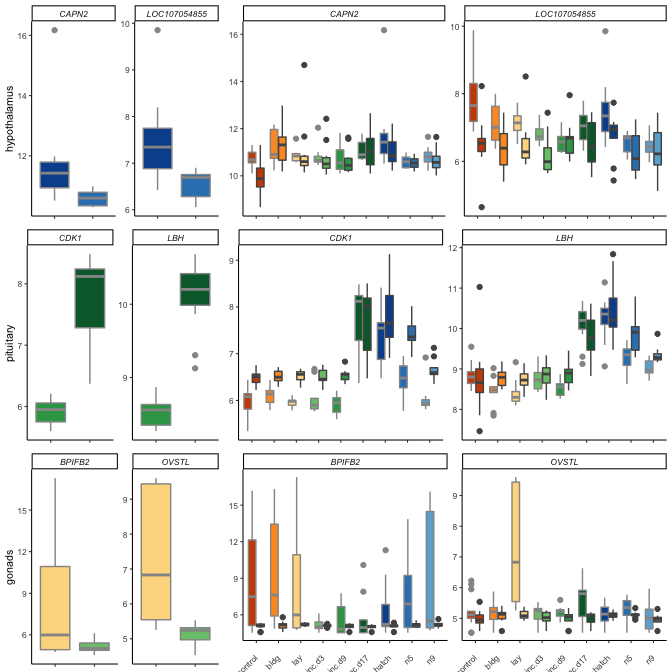
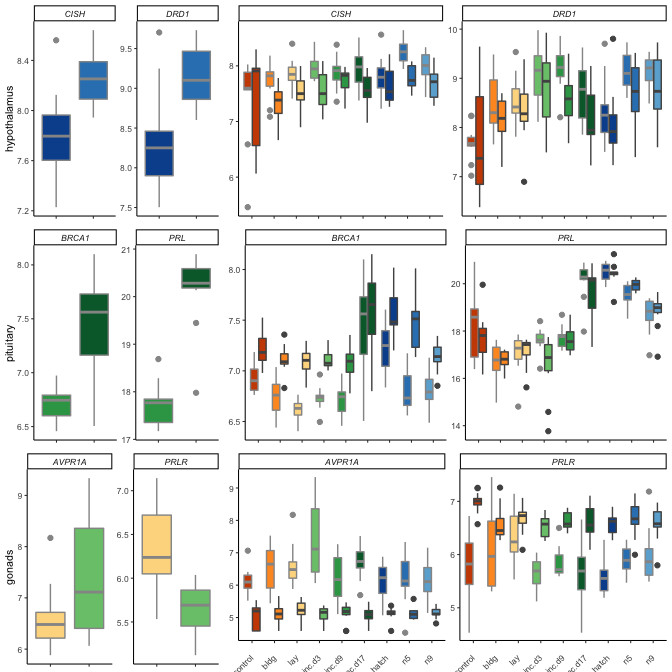
new fig 4

diff --git a/analysis/figure-4.md b/analysis/figure-4.md
@@ -3,14 +3,14 @@ Figure 4
 
     library(tidyverse)
 
-    ## ── Attaching packages ─────────────────────────────────────────────────────── tidyverse 1.3.0 ──
+    ## ── Attaching packages ─────────────────────────────── tidyverse 1.3.0 ──
 
     ## ✓ ggplot2 3.3.0.9000     ✓ purrr   0.3.3     
     ## ✓ tibble  2.1.3          ✓ dplyr   0.8.3     
     ## ✓ tidyr   1.0.0          ✓ stringr 1.4.0     
     ## ✓ readr   1.3.1          ✓ forcats 0.4.0
 
-    ## ── Conflicts ────────────────────────────────────────────────────────── tidyverse_conflicts() ──
+    ## ── Conflicts ────────────────────────────────── tidyverse_conflicts() ──
     ## x dplyr::filter() masks stats::filter()
     ## x dplyr::lag()    masks stats::lag()
 
@@ -45,23 +45,9 @@ Figure 4
       pivot_longer(cols = L.G118_female_gonad_control:y98.o50.x_male_pituitary_inc.d3, 
                    names_to = "samples", values_to = "counts") 
 
-    hypgenes <- read_csv("../results/DEseq2/female_hypothalamus_hatch_n5_DEGs.csv") %>%
-      arrange(desc(logpadj)) %>% head(., n = 2) %>% pull(gene)
-    hypgenes
-
-    ## [1] "CAPN2"        "LOC107054855"
-
-    pitgenes <- read_csv("../results/DEseq2/female_pituitary_inc.d9_inc.d17_DEGs.csv") %>%
-      arrange(desc(logpadj)) %>% head(., n = 2) %>% pull(gene)
-    pitgenes
-
-    ## [1] "LBH"  "CDK1"
-
-    gongenes <- read_csv("../results/DEseq2/female_gonad_lay_inc.d3_DEGs.csv") %>%
-      arrange(desc(logpadj)) %>% head(., n = 2) %>% pull(gene)
-    gongenes
-
-    ## [1] "OVSTL"  "BPIFB2"
+    hypgenes <- c("CISH", "DRD1")
+    pitgenes <- c("PRL", "BRCA1")
+    gongenes <- c("AVPR1A", "PRLR")
 
     candidategenes <- c("PRL", "PRLR" ,  "AVPR1B" , "MYC" ,  
                     "MAP2KA", "MSH" ,   "PALB2" , "BRCA1", 
